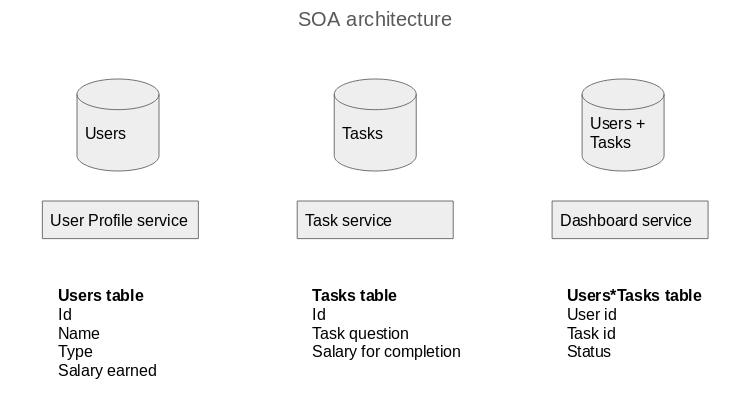
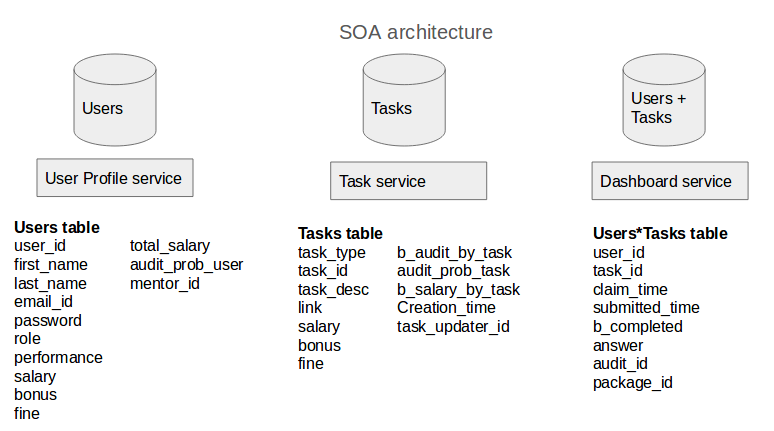
description added and table schema updated

diff --git a/README.md b/README.md
@@ -1,5 +1,18 @@
 # CrowdMentor
-Iteration 1 : Task Updater(TU) submits the task, Worker completes the task and earns salary.
+Dr.Korok Ray is the director of the Mays Innovation Research Center, and his core area of research is the study of incentive, risk and
+reward for human performance. As part of his research, he wants to study how the workers' performance can be improved in a crowdsourcing
+environment. The goal of this project is to build a crowdsourcing website which would allow the collection of real world data necessary for
+his research.
+
+The website must allow the admins to upload tasks and workers to complete them. Each worker is assigned a
+mentor who guides him through the task. The worker earns a salary for each task he completes. Completed tasks are randomly chosen for 
+audits and checked for correctness. Based on the audits, the workers either receive a bonus which adds to their salary or a penalty which
+subtracts from it. The audits also help evaluate the workers' performance, which helps determine the effectiveness of the training and
+incentives being provided to the them. The goal is to build a system where the factors which affect worker performance can be studied
+comprehensively.
+
+
+Iteration 1 : Task Updater(TU) submits the task, Worker completes the task and earns salary.\\
 For the first iteration, we can have a simple question answering task where the worker must answer the question.
 
 ![](soa_architecture.png)
